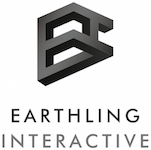
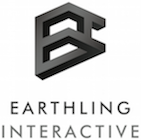
adjusting sponsor images in header bar so silver is slightly larger

diff --git a/views/layout.twig.html b/views/layout.twig.html
@@ -47,10 +47,10 @@
             <div id="horizontal-sponsors">
                 <h3>Sponsors</h3>
                 {% for sponsor in sponsors.silver %}
-                <a href="{{ sponsor.href }}"><img src="{{ sponsor.thumbnail }}" alt="{{ sponsor.name }}" class="img-responsive sponsor-header"></a>
+                <a href="{{ sponsor.href }}"><img src="{{ sponsor.thumbnail }}" alt="{{ sponsor.name }}" class="img-responsive sponsor-header-silver"></a>
                 {% endfor %}
                 {% for sponsor in sponsors.bronze %}
-                <a href="{{ sponsor.href }}"><img src="{{ sponsor.thumbnail }}" alt="{{ sponsor.name }}" class="img-responsive sponsor-header"></a>
+                <a href="{{ sponsor.href }}"><img src="{{ sponsor.thumbnail }}" alt="{{ sponsor.name }}" class="img-responsive sponsor-header-bronze"></a>
                 {% endfor %}
             </div>
         </div>

diff --git a/web/assets/css/style.css b/web/assets/css/style.css
@@ -61,7 +61,7 @@ h1, h2, h3, h4 {
     padding: 0px 20px 0px 0px;
 }
 
-.sponsor-header {
+.sponsor-header-bronze, .sponsor-header-silver {
     display: inline;
 }
 
